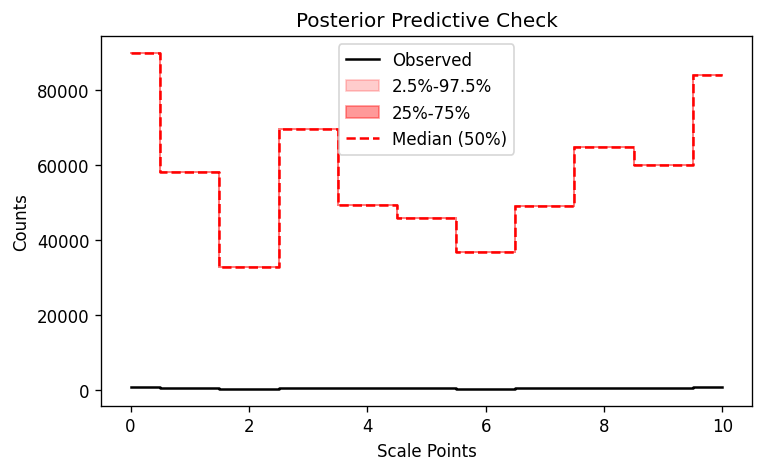
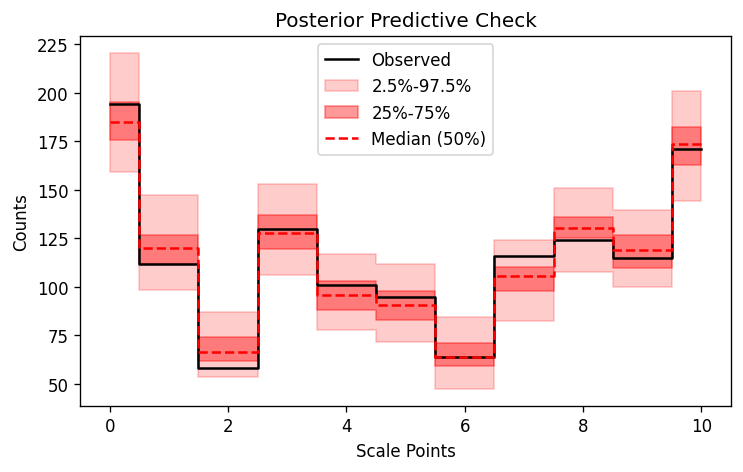
fixed MCMC Predictive

diff --git a/digitaltwins/post.py b/digitaltwins/post.py
@@ -130,6 +130,22 @@ def predict_mcmc(model, rng_key, samples, Y_u_sites, model_args_post):
         results.append(trace[Y_u_sites]["value"])
     return jnp.stack(results, axis=1)  # Combine along sample dimension
 
+import jax.numpy as jnp
+
+def remove_first_dim(samples_dict):
+    """
+    Returns a copy of samples_dict where each array's
+    first dimension has been removed (assuming size=1).
+    """
+    new_dict = {}
+    for k, v in samples_dict.items():
+        # Check that the first dim is actually 1
+        if v.shape[0] != 1:
+            raise ValueError(f"Expected first dimension to be 1, but got {v.shape} for key '{k}'.")
+        
+        # Remove the first dimension
+        new_dict[k] = jnp.squeeze(v, axis=0)
+    return new_dict
 
 
 def reconstruct_mcmc(rng_key, model, mcmc_samples, fetch_all_u, fetch_all_c, N_batch, static_kwargs, args):
@@ -181,14 +197,16 @@ def reconstruct_mcmc(rng_key, model, mcmc_samples, fetch_all_u, fetch_all_c, N_b
     Y_u_sites = list(fetch_all_u(0))
     Y_u_orig, Y_u_post = {}, {}
     
+    mcmc_samples2 = remove_first_dim(mcmc_samples)
+
     # 1) Create a Predictive object using MCMC posterior samples
     post_pred_dist = infer.Predictive(
         model=model,
-        posterior_samples=mcmc_samples,  # <--- key difference vs SVI
+        posterior_samples=mcmc_samples2,  # <--- key difference vs SVI
         # num_samples=100,                 # how many draws from each chain
         parallel=True,
-        return_sites=Y_u_sites
-        # batch_ndims=2
+        return_sites=Y_u_sites,
+        batch_ndims=1
     )
 
     # model_args_post = {**fetch_all_c(i), **static_kwargs}
@@ -205,31 +223,32 @@ def reconstruct_mcmc(rng_key, model, mcmc_samples, fetch_all_u, fetch_all_c, N_b
     #         Y_u_post[site] = post_samples[site]
 
     # 2) Loop over each data batch
-    for i in range(N_batch):
-        model_args_post = {**fetch_all_c(i), **static_kwargs}
-        # posterior predictive draws
+    # for i in range(N_batch):
+    i = 0
+    model_args_post = {**fetch_all_c(i), **static_kwargs}
+    # posterior predictive draws
 
-        post_samples = post_pred_dist(rng_key_post, **model_args_post)
-            
-        # rng_key, rng_key_predict = random.split(rng_key, 2)
-        # post_samples = predict_mcmc(model, rng_key, mcmc_samples, Y_u_sites, model_args_post)
-        # vmap_args = (
-        #     mcmc_samples,
-        #     random.split(rng_key_predict, args.num_samples * args.num_chains),
-        # )
-        # post_samples = vmap(
-        #     lambda samples, rng_key: predict_mcmc(model, rng_key, samples, Y_u_sites, **model_args_post)
-        # )(*vmap_args)
-        # post_samples = post_samples[..., 0]
+    post_samples = post_pred_dist(rng_key_post, **model_args_post)
         
-        for site in Y_u_sites:
-            # store original and predicted
-            if site in Y_u_post:
-                Y_u_orig[site] = jnp.concatenate([Y_u_orig[site], fetch_all_u(i)[site]], axis=0)
-                Y_u_post[site] = jnp.concatenate([Y_u_post[site], post_samples[site]], axis=1)
-            else:
-                Y_u_orig[site] = fetch_all_u(i)[site]
-                Y_u_post[site] = post_samples[site]
+    # rng_key, rng_key_predict = random.split(rng_key, 2)
+    # post_samples = predict_mcmc(model, rng_key, mcmc_samples2, Y_u_sites, model_args_post)
+    # vmap_args = (
+    #     mcmc_samples2,
+    #     random.split(rng_key_predict, args.num_samples * args.num_chains),
+    # )
+    # post_samples = vmap(
+    #     lambda samples, rng_key: predict_mcmc(model, rng_key, samples, Y_u_sites, **model_args_post)
+    # )(*vmap_args)
+    # post_samples = post_samples[..., 0]
+    
+    for site in Y_u_sites:
+        # store original and predicted
+        if site in Y_u_post:
+            Y_u_orig[site] = jnp.concatenate([Y_u_orig[site], fetch_all_u(i)[site]], axis=0)
+            Y_u_post[site] = jnp.concatenate([Y_u_post[site], post_samples[site]], axis=1)
+        else:
+            Y_u_orig[site] = fetch_all_u(i)[site]
+            Y_u_post[site] = post_samples[site]
 
     # 3) Compute MAE (or any other metric) and save .npy files
     f_mae = lambda x: jnp.mean(jnp.abs(x), axis=(0,2))

diff --git a/digitaltwins/util.py b/digitaltwins/util.py
@@ -185,7 +185,19 @@ class IdealPointNN_mcmc(nn.Module):
         # x = x.reshape(-1, x.shape[-1])  # Flatten all dimensions except the last one
         # print(f"shape of x: {x.shape}")
         # x = self.norm_layer(x)
+        # x = self.norm_layer(x)
+
+
+
+        # Suppose x can be (N, 354) or (S, N, 354)
+        # Flatten all leading dims into one combined batch:
+        orig_shape = x.shape
+        x = x.reshape(-1, orig_shape[-1])  # e.g. (N, 354) or (S*N, 354)
+
         x = self.norm_layer(x)
+
+        # optional: for a standard feed-forward net, you might keep it flat, or reshape back
+        x = x.reshape(orig_shape[:-1] + (-1,))
         # x = nn.tanh(self.layer1(x))
         # x = nn.tanh(self.layer2(x))
         x = nn.tanh(self.layer(x))

diff --git a/digitaltwins/model.py b/digitaltwins/model.py
@@ -351,7 +351,7 @@ def model_mcmc(Y_u_1_11: jnp.ndarray = None,   # uncommon variables, in scale po
         "z_nn",
         util.IdealPointNN_mcmc(hidden_size1=hidden_dim, hidden_size2=hidden_dim * 2, output_size=1),
         prior=z_nn_prior,
-        input_shape=Y_c.shape,
+        input_shape=(Y_c.shape[2],),
         # input_shape=jnp.expand_dims(Y_c, axis=0).shape
     )
 
